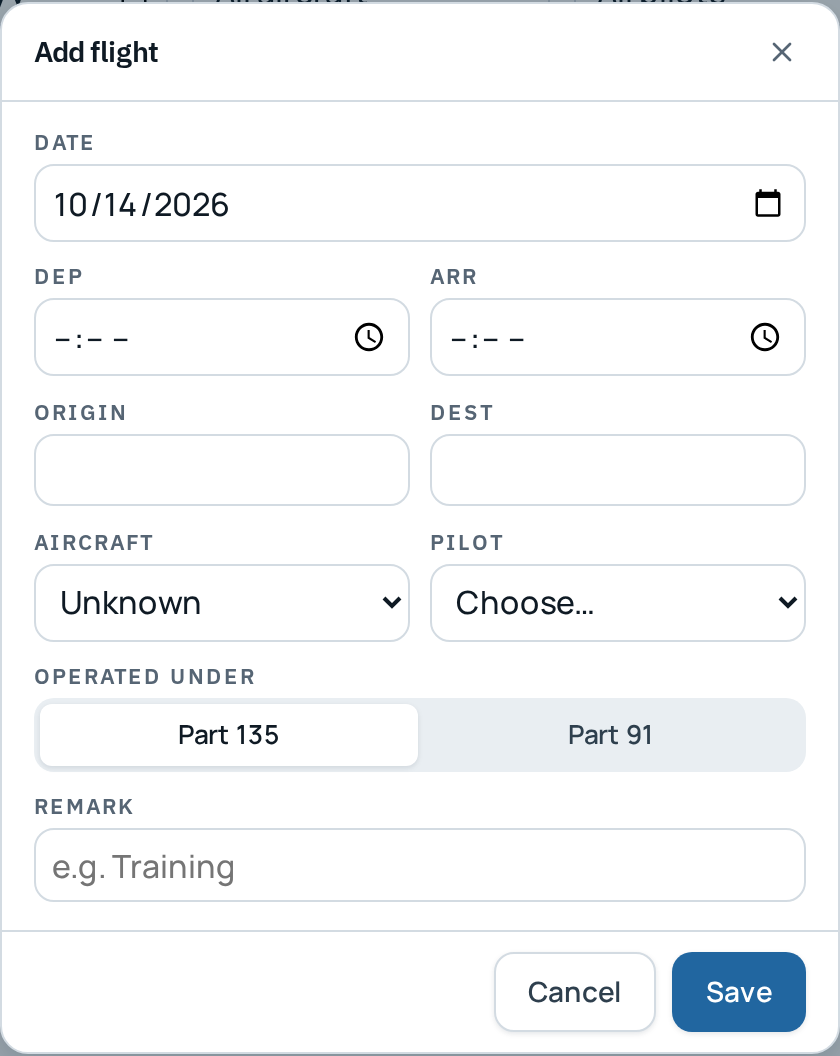
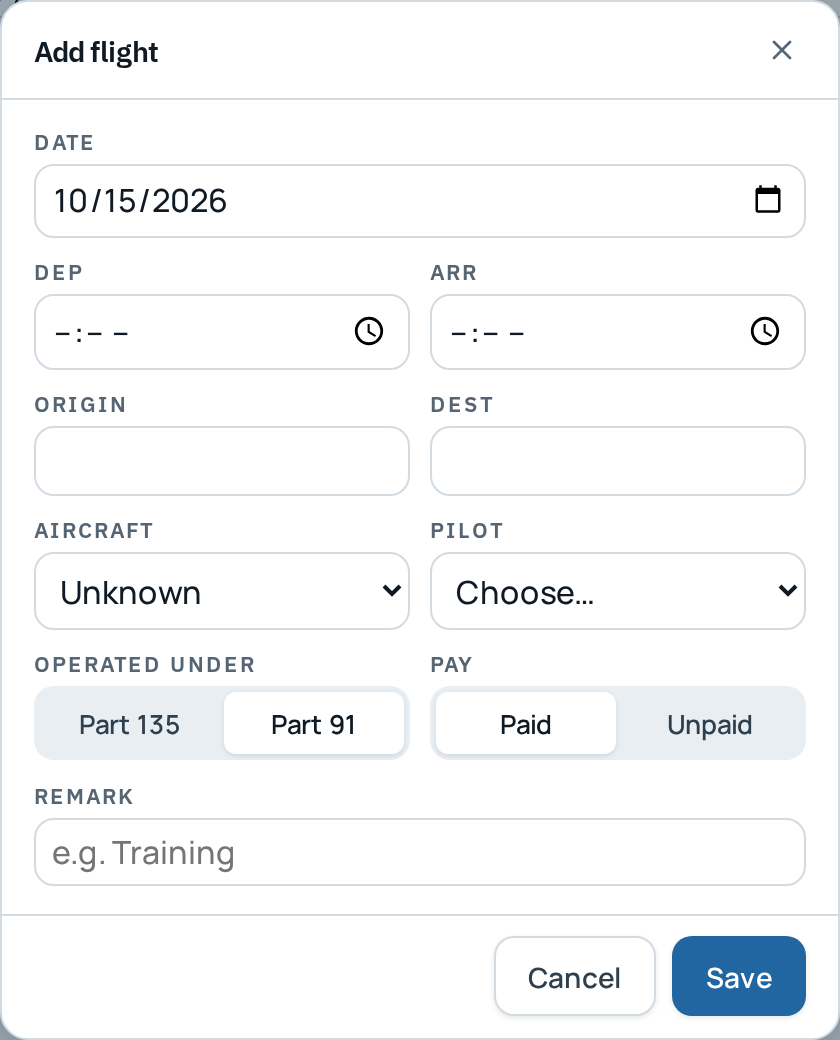
Doc screenshots: the flight form with Part 91 picked, showing Pay
segmentedHtml() options take an optional data-doc-shot slug, so the shot's
setup can click Part 91 and the generated flight form shows the Paid/Unpaid
control. Regenerated all doc screenshots.

diff --git a/src/shared/segmented-control.ts b/src/shared/segmented-control.ts
@@ -61,15 +61,16 @@ export function segmentedControlScript(): string {
   return `
     // ── Segmented control ─────────────────────────────────────────────────────
 
-    // A .segmented radiogroup named name, from [value, label] options (labels are
+    // A .segmented radiogroup named name, from [value, label, docShot?] options (labels are
     // trusted markup), with value selected. Name it with { label } or { labelledBy }.
     function segmentedHtml(name, options, value, { label, labelledBy } = {}) {
       return '<div class="segmented" role="radiogroup" data-segmented="' + name + '"' +
         (labelledBy ? ' aria-labelledby="' + labelledBy + '"' : '') +
         (label ? ' aria-label="' + label + '"' : '') + '>' +
-        options.map(([v, text]) =>
+        options.map(([v, text, docShot]) =>
           '<button type="button" role="radio" class="segmented-btn' + (v === value ? ' active' : '') +
-          '" aria-checked="' + (v === value) + '" data-value="' + v + '">' + text + '</button>').join('') +
+          '" aria-checked="' + (v === value) + '" data-value="' + v + '"' +
+          (docShot ? ' data-doc-shot="' + docShot + '"' : '') + '>' + text + '</button>').join('') +
         '</div>';
     }
 

diff --git a/src/shared/flight-editor.ts b/src/shared/flight-editor.ts
@@ -486,7 +486,7 @@ export function flightEditorScript(): string {
           // only while Part 91 is picked.
           '<div class="form-field-row">' +
             '<div class="form-field"><span class="form-field-label" id="fe-f-part-label">Operated under</span>' +
-              segmentedHtml('part', [['135', 'Part 135'], ['91', 'Part 91']], edit && edit.part91 ? '91' : '135', { labelledBy: 'fe-f-part-label' }) + '</div>' +
+              segmentedHtml('part', [['135', 'Part 135'], ['91', 'Part 91', 'flight-editor.part91']], edit && edit.part91 ? '91' : '135', { labelledBy: 'fe-f-part-label' }) + '</div>' +
             '<div class="form-field" data-fe-pay' + (edit && edit.part91 ? '' : ' hidden') + '><span class="form-field-label" id="fe-f-pay-label">Pay</span>' +
               segmentedHtml('pay', [['paid', 'Paid'], ['unpaid', 'Unpaid']], edit && edit.unpaid ? 'unpaid' : 'paid', { labelledBy: 'fe-f-pay-label' }) + '</div>' +
           '</div>' +

diff --git a/docs/duty-log-editing-plan.md b/docs/duty-log-editing-plan.md
@@ -497,8 +497,6 @@ crew size. The user docs say the log assumes one-pilot crews.
   though under (c) it's the regularly assigned duty period the days are checked against.
   Adding the same triggers to `pilots` (and routing `PUT /api/pilots/:id` through
   `recordedBatch`) would cover it.
-- The flight form's doc screenshot (`flight-editor.flight-form`) wasn't regenerated
-  for the Pay control, which only shows for a Part 91 flight.
 - §135.263(d) / SevenBar: an overrun caused by unexpected en-route delays isn't a
   violation, but the log can't know the cause, so it keeps warning. The day's note and
   the flight's remark record the cause.
